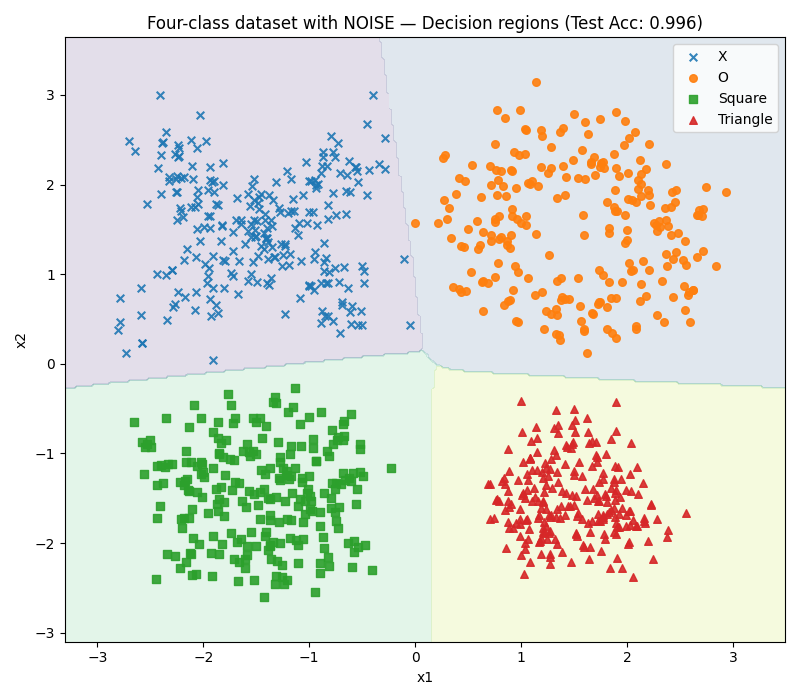
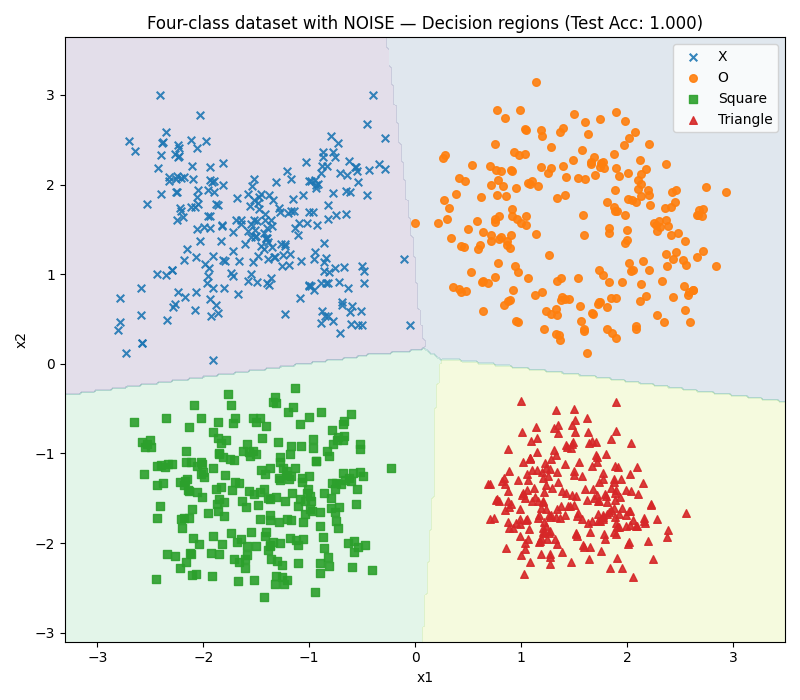
add new files

diff --git a/ML/Advanced Learning Algorithms/Softmax_using_Python.py b/ML/Advanced Learning Algorithms/Softmax_using_Python.py
@@ -1,0 +1,135 @@
+import numpy as np
+import tensorflow as tf
+from keras.models import Sequential
+from keras.layers import Dense
+from keras.datasets import mnist
+import matplotlib.pyplot as plt
+import random
+import os
+
+# ======== Visualization Directory ========
+current_dir = os.path.dirname(__file__)
+save_dir = os.path.abspath(os.path.join(current_dir, "..","images/Neural_Networks"))
+os.makedirs(save_dir, exist_ok=True)
+
+# ------------------------
+# Softmax (stable)
+# ------------------------
+def my_softmax(z):
+    z_shifted = z - np.max(z)
+    exp_z = np.exp(z_shifted)
+    return exp_z / np.sum(exp_z)
+
+# Quick check
+z = np.array([1., 2., 3., 4.])
+print("my_softmax(z):        ", my_softmax(z))
+print("tf.nn.softmax(z):     ", tf.nn.softmax(z).numpy())
+
+# ------------------------
+# Load & preprocess MNIST
+# ------------------------
+(X_train, y_train), (X_test, y_test) = mnist.load_data()
+print("Original shapes:", X_train.shape, y_train.shape, X_test.shape, y_test.shape)
+
+X_train = (X_train.astype("float32") / 255.0).reshape(len(X_train), -1)  # (60000, 784)
+X_test  = (X_test.astype("float32")  / 255.0).reshape(len(X_test), -1)   # (10000, 784)
+print("After flattening:", X_train.shape, X_test.shape)
+
+# ------------------------
+# Build model
+# ------------------------
+tf.random.set_seed(1234)
+n = X_train.shape[1]
+model = Sequential([
+    Dense(25, activation='relu', input_shape=(n,), name='L1'),
+    Dense(15, activation='relu', name='L2'),
+    Dense(10, activation='linear', name='L3')  # logits for 10 classes
+], name="my_model")
+
+model.summary()
+
+# ------------------------
+# Compile & train
+# ------------------------
+model.compile(
+    loss=tf.keras.losses.SparseCategoricalCrossentropy(from_logits=True),
+    optimizer=tf.keras.optimizers.Adam(learning_rate=0.001),
+    metrics=['accuracy']
+)
+
+history = model.fit(
+    X_train, y_train,
+    epochs=10,
+    batch_size=32,
+    validation_data=(X_test, y_test),
+    verbose=0
+)
+
+# ------------------------
+# Plots: Loss & Accuracy
+# ------------------------
+plt.figure()
+plt.plot(history.history['loss'], label='Train Loss')
+plt.plot(history.history['val_loss'], label='Test Loss')
+plt.legend()
+plt.title('Loss over Epochs')
+plt.xlabel('Epoch'); plt.ylabel('Loss')
+plt.savefig(os.path.join(save_dir, "Loss over Epochs.png"))
+plt.show()
+
+plt.figure()
+plt.plot(history.history['accuracy'], label='Train Acc')
+plt.plot(history.history['val_accuracy'], label='Test Acc')
+plt.legend()
+plt.title('Accuracy over Epochs')
+plt.xlabel('Epoch'); plt.ylabel('Accuracy')
+plt.savefig(os.path.join(save_dir, "Accuracy over Epochs.png"))
+plt.show()
+
+# ------------------------
+# Single prediction example
+# ------------------------
+sample = X_test[0].reshape(1, -1)
+logits = model.predict(sample, verbose=0)
+probs = tf.nn.softmax(logits).numpy()
+print("Raw logits:", logits)
+print("Probabilities:", probs)
+print("Predicted class:", np.argmax(probs))
+print("True label:", y_test[0])
+
+# ------------------------
+# Grid of predictions (5x5)
+# ------------------------
+num_images = 25
+indices = random.sample(range(len(X_test)), num_images)
+
+plt.figure(figsize=(10, 10))
+for i, idx in enumerate(indices):
+    img = X_test[idx].reshape(28, 28)
+    true_label = y_test[idx]
+    logits_i = model.predict(X_test[idx].reshape(1, -1), verbose=0)
+    pred_label = int(np.argmax(tf.nn.softmax(logits_i).numpy()))
+
+    plt.subplot(5, 5, i + 1)
+    plt.imshow(img, cmap='gray')
+    plt.axis('off')
+    color = 'green' if pred_label == true_label else 'red'
+    plt.title(f"T:{true_label} P:{pred_label}", color=color, fontsize=10)
+
+plt.suptitle("MNIST Predictions (Green = Correct, Red = Wrong)", fontsize=14)
+plt.tight_layout()
+plt.savefig(os.path.join(save_dir, "NIST Predictions.png"))
+plt.show()
+
+# ------------------------
+# Confusion matrix (no sklearn)
+# ------------------------
+y_pred_logits = model.predict(X_test, verbose=0)
+y_pred = np.argmax(y_pred_logits, axis=1)
+cm = tf.math.confusion_matrix(labels=y_test, predictions=y_pred, num_classes=10).numpy()
+
+print("\nConfusion Matrix (rows=True label, cols=Pred):\n")
+# Pretty-print small matrix
+for r in cm:
+    print(" ".join(f"{int(x):5d}" for x in r))
+
